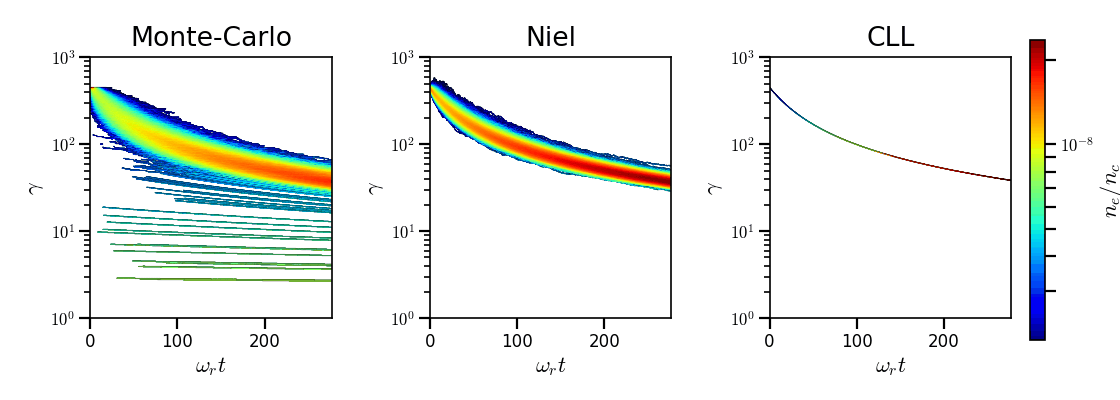
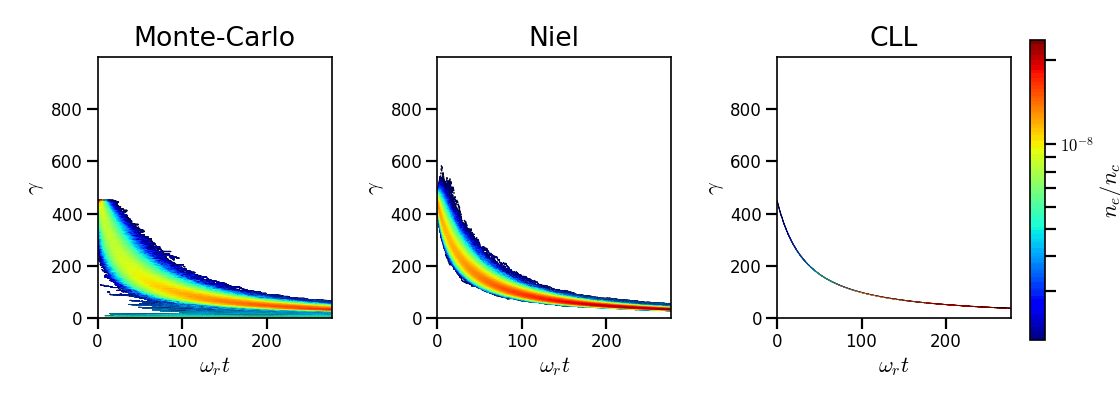
Corrections in Sphinx doc: - remove Niel radiation model performance numbers - Change figures for Michael - Update of the benchmark descriptions

diff --git a/doc/Sphinx/radiation_loss.rst b/doc/Sphinx/radiation_loss.rst
@@ -365,7 +365,7 @@ This fit enables to keep the vectorization of the particle loop.
 The corrected model is accessible in the species configuration under the name
 ``corrected-Landau-Lifshitz``.
 
-Fokker-Planck stochastic model
+Fokker-Planck stochastic model of Niel *et al*.
 """"""""""""""""""""""""""""""""""""""""""""""""""""""""""""""""""""""""""""""""
 
 Eq. :eq:`NielStochasticForce` is implemented in :program:`Smilei` using
@@ -422,12 +422,15 @@ Benchmarks
 Counter-propagating plane wave, 1D
 """"""""""""""""""""""""""""""""""""""""""""""""""""""""""""""""""""""""""""""""
 
-In the benchmark ``benchmark/tst1d_9_rad_counter_prop.py``,
+In the benchmark ``benchmark/tst1d_9_rad_electron_laser_collision.py``,
 a GeV electron bunch is initialized near the right
 domain boundary and propagates towards the left boundary from which a plane
 wave is injected. The laser has an amplitude of :math:`a_0 = 270`
 corresponding to an intensity of :math:`10^{23}\ \mathrm{Wcm^{-2}}` at
-:math:`\lambda = 1\ \mathrm{\mu m}`. The maximal quantum parameter :math:`\chi`
+:math:`\lambda = 1\ \mathrm{\mu m}`.
+The laser has a Gaussian profile of full-with at half maxium of
+:math:`20 \pi \omega_r^{-1}` (10 laser periods).
+The maximal quantum parameter :math:`\chi`
 value reached during the simulation is around 0.5.
 
 .. _rad_counter_prop_scalar:
@@ -660,17 +663,33 @@ the Monte-Carlo radiation process.
 +-------------------------------------+------------+----------+--------------+----------+---------------------+
 | Radiation model                     | None       | LL       | CLL          | Niel     | MC                  |
 +=====================================+============+==========+==============+==========+=====================+
-| Counter-propagating Plane Wave 1D   | 0.25s      | 0.3s     | 0.32s        | 0.63s    | 0.63s               |
+| Counter-propagating Plane Wave 1D   | 0.25s      | 0.3s     | 0.32s        |          | 0.63s               |
 +-------------------------------------+------------+----------+--------------+----------+---------------------+
-| Synchrotron 2D Haswell              | 3.9s       | 4.2s     | 4.7s         | 7.8s     | 5.6s                |
-| :math:`\chi=0.5`,  :math:`B=100`    |            | - 8%     | - 21%        | - 100%   | - :math:`\sim` 50%  |
+| Synchrotron 2D Haswell              | 3.9s       | 4.2s     | 4.7s         |          | 5.6s                |
+| :math:`\chi=0.5`,  :math:`B=100`    |            | - 8%     | - 21%        |          | - :math:`\sim` 50%  |
 +-------------------------------------+------------+----------+--------------+----------+---------------------+
-| Synchrotron 2D KNL                  | 3s         | 3.2s     | 3.3s         | 31s      | 10s                 |
+| Synchrotron 2D KNL                  | 3s         | 3.2s     | 3.3s         |          | 10s                 |
 | :math:`\chi=0.5`,  :math:`B=100`    |            |          |              |          |                     |
 +-------------------------------------+------------+----------+--------------+----------+---------------------+
-| Interaction with a carbon thin foil | 6.5s       | 6.5s     | 6.6s         | 6.9s     | 6.8s                |
+| Interaction with a carbon thin foil | 6.5s       | 6.5s     | 6.6s         |          | 6.8s                |
 | 2D                                  |            |          |              |          |                     |
 +-------------------------------------+------------+----------+--------------+----------+---------------------+
+
+.. +-------------------------------------+------------+----------+--------------+----------+---------------------+
+.. | Radiation model                     | None       | LL       | CLL          | Niel     | MC                  |
+.. +=====================================+============+==========+==============+==========+=====================+
+.. | Counter-propagating Plane Wave 1D   | 0.25s      | 0.3s     | 0.32s        | 0.63s    | 0.63s               |
+.. +-------------------------------------+------------+----------+--------------+----------+---------------------+
+.. | Synchrotron 2D Haswell              | 3.9s       | 4.2s     | 4.7s         | 7.8s     | 5.6s                |
+.. | :math:`\chi=0.5`,  :math:`B=100`    |            | - 8%     | - 21%        | - 100%   | - :math:`\sim` 50%  |
+.. +-------------------------------------+------------+----------+--------------+----------+---------------------+
+.. | Synchrotron 2D KNL                  | 3s         | 3.2s     | 3.3s         | 31s      | 10s                 |
+.. | :math:`\chi=0.5`,  :math:`B=100`    |            |          |              |          |                     |
+.. +-------------------------------------+------------+----------+--------------+----------+---------------------+
+.. | Interaction with a carbon thin foil | 6.5s       | 6.5s     | 6.6s         | 6.9s     | 6.8s                |
+.. | 2D                                  |            |          |              |          |                     |
+.. +-------------------------------------+------------+----------+--------------+----------+---------------------+
+
 
 Descriptions of the cases:
 
@@ -683,8 +702,8 @@ Descriptions of the cases:
   The first case has been run on a single Haswell node of *Jureca* with 2 MPI ranks and
   12 OpenMP threads per rank. the second one has been run on a single KNL node of *Frioul*
   configured in quadrant cache using 1 MPI rank and 64 OpenMP threads.
-  On KNL, the `KMP_affinity` is set to fine and scatter. Only the Niel model provides
-  better performance with a compact affinity.
+  On KNL, the ``KMP_AFFINITY`` is set to ``fine`` and ``scatter``.
+.. Only the Niel model provides better performance with a ``compact`` affinity.
 
 * **Thin foil 2D**:
   The domain has a discretization of 64 cells per :math:`\mu\mathrm{m}` in
@@ -696,10 +715,12 @@ The LL and CLL models are vectorized efficiently.
 These radiation reaction models represent a small overhead
 to the particle pusher.
 
-The Niel model implementation is split into several loops to
-be partially vectorized. Surprisingly, this model have bad performance on KNL
-and further analysis are necessary to well understand why.
+.. The Niel model implementation is split into several loops to
+.. be partially vectorized. Surprisingly, this model have bad performance on KNL
+.. and further analysis are necessary to well understand why.
 
+The Monte-Carlo pusher is not vectorized because the Monte-Carlo loop has
+not predictable end and contains many if-statements.
 When using the Monte-Carlo radiation model, code performance is likely to be
 more impacted running on SIMD architecture with large vector registers
 such as Intel Xeon Phi processors.
@@ -718,6 +739,8 @@ References
 .. [Lobet2013] `Lobet et al., J. Phys.: Conf. Ser. 688, 012058 (2016) <http://iopscience.iop.org/article/10.1088/1742-6596/688/1/012058>`_
 
 .. [Lobet2015] `M. Lobet, Effets radiatifs et d'électrodynamique quantique dans l'interaction laser-matière ultra-relativiste (2015) <http://www.theses.fr/2015BORD0361#>`_
+
+.. [Niel2017] `Niel et al., Arxiv, ArXiv Preprint 1707.02618  (2017) <https://arxiv.org/abs/1707.02618>`_
 
 .. [Ritus1985] `Ritus V. (1985), Journal of Soviet Laser Research, 6, 497, ISSN 0270-2010 <https://doi.org/10.1007/BF01120220>`_
 

diff --git a/doc/Sphinx/multiphoton_Breit_Wheeler.rst b/doc/Sphinx/multiphoton_Breit_Wheeler.rst
@@ -304,8 +304,8 @@ of the domain with an initial energy of 4 GeV. The bunch is made to collide head
 with a laser plane wave injected from the left side of the domain.
 The laser has a maximal intensity of :math:`10^{23}\ \mathrm{Wcm^{-2}}`.
 It is circularly polarized and has a temporal Gaussian profile with a
-FWHM (full width at half maximum) of 50 periods
-(approximately corresponding to 25 fs).
+FWHM (full width at half maximum) of 10 periods
+(approximately corresponding to 33 fs).
 A wavelength of :math:`1\ \mathrm{\mu m}` is considered.
 
 This configuration is one of the most efficient to trigger QED effects
@@ -366,3 +366,5 @@ This is the consequence of two main facts:
 Electron and positron spectra are very similar ranging from 20 MeV
 to mainly 200 MeV.
 Few particles have an energy above this threshold up to 1 GeV.
+
+This corresponds to the benchmark ``benchmark/tst1d_10_pair_electron_laser_collision.py``.
